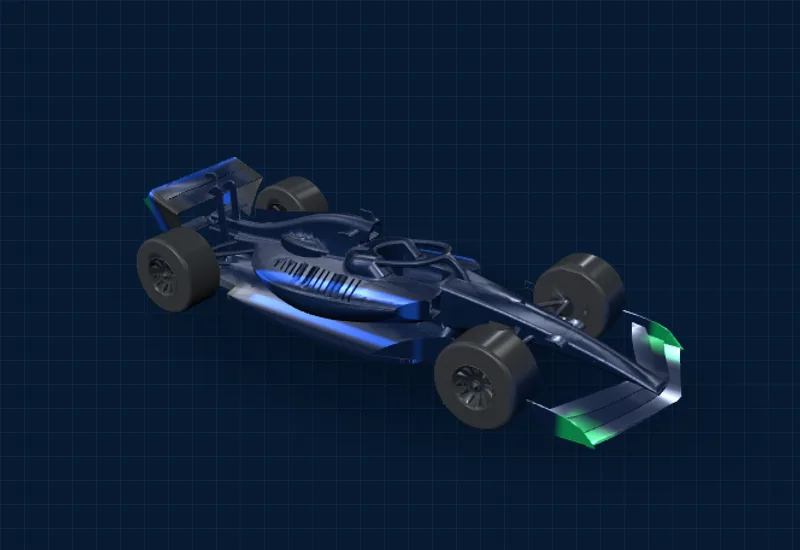
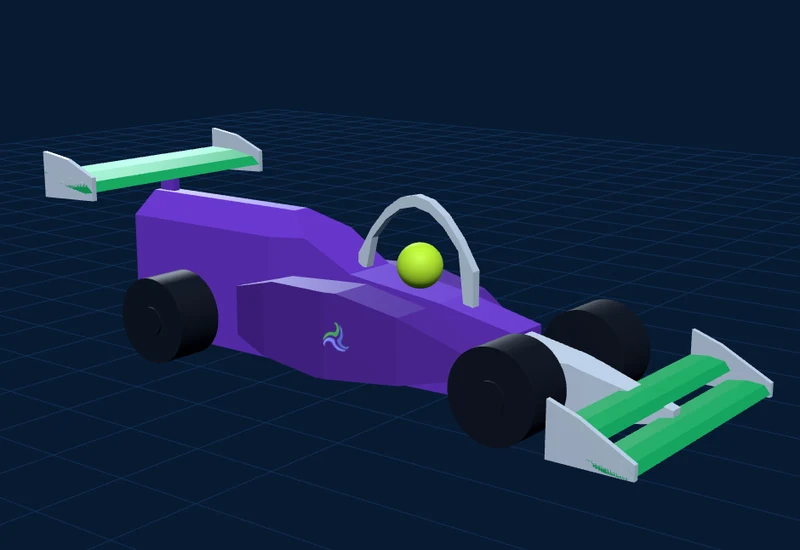
feat(hero): usa despiece/sr26.glb con librea plana por pieza y nuevo poster

Changed region(s): [[0.0312, 0.2164, 0.9688, 0.8964]]

diff --git a/js/viewer.js b/js/viewer.js
@@ -1,5 +1,5 @@
 (function(){
-  // Visor 3D del monoplaza con librea de marca (degradado nariz→chasis→alerón, sin necesitar UVs).
+  // Visor 3D del monoplaza SR-26 (despiece/sr26.glb) con la librea plana por pieza de despiece/sr26-despiece.js.
   // Perf: three.js + el .glb solo se descargan cuando el visor está por entrar en viewport (ver
   // bootWhenNear más abajo) -- hasta entonces se muestra el poster estático (car-poster.webp).
   var stage = document.getElementById('modelStage');
@@ -31,21 +31,23 @@
 
   async function boot(){
     stage.classList.add('is-loading');
-    var THREE, GLTFLoaderMod, OrbitControlsMod, RoomEnvMod, MeshoptMod;
+    var THREE, GLTFLoaderMod, OrbitControlsMod, RoomEnvMod, MeshoptMod, DespieceMod;
     try{
       THREE = await import('three');
       GLTFLoaderMod = await import('three/addons/loaders/GLTFLoader.js');
       OrbitControlsMod = await import('three/addons/controls/OrbitControls.js');
       try{ RoomEnvMod = await import('three/addons/environments/RoomEnvironment.js'); }catch(e){ RoomEnvMod = null; }
       try{ MeshoptMod = await import('three/addons/libs/meshopt_decoder.module.js'); }catch(e){ MeshoptMod = null; }
+      DespieceMod = await import('../despiece/sr26-despiece.js'); // solo para reutilizar LIVERY
     }catch(e){ return fail(); }
 
     try{
-      initViewer(THREE, GLTFLoaderMod.GLTFLoader, OrbitControlsMod.OrbitControls, RoomEnvMod && RoomEnvMod.RoomEnvironment, MeshoptMod && MeshoptMod.MeshoptDecoder);
+      initViewer(THREE, GLTFLoaderMod.GLTFLoader, OrbitControlsMod.OrbitControls, RoomEnvMod && RoomEnvMod.RoomEnvironment, MeshoptMod && MeshoptMod.MeshoptDecoder, DespieceMod.LIVERY);
     }catch(e){ fail(); }
   }
 
-  function initViewer(THREE, GLTFLoader, OrbitControls, RoomEnvironment, MeshoptDecoder){
+  function initViewer(THREE, GLTFLoader, OrbitControls, RoomEnvironment, MeshoptDecoder, LIVERY){
+    function liveryFor(name){ return LIVERY[name.slice(0, 2)] || '#CDDEEF'; }
     var scene = new THREE.Scene();
     var camera = new THREE.PerspectiveCamera(30, 1, 1, 5000);
 
@@ -64,10 +66,10 @@
     }
 
     // Iluminación de galería: el monoplaza se lee como una escultura en penumbra.
-    // Ambiente casi apagado (el IBL también se atenúa en makeLiveryMaterial) para que el contraste
+    // Ambiente casi apagado para que el contraste
     // lo den solo dos luces de firma: un key cenital blanco frío que recorta la arista superior del
     // chasis y un rim trasero blanco frío/ice que perfila el alerón trasero.
-    scene.add(new THREE.HemisphereLight(0x9DB8D6, 0x071B33, 0.32));
+    scene.add(new THREE.HemisphereLight(0xCFE0F5, 0x1A2A52, 0.9));
     var key = new THREE.DirectionalLight(0xEAF4FF, 2.6); // key cenital, blanco frío
     key.position.set(0.6, 10, 1.4);
     scene.add(key);
@@ -165,190 +167,26 @@
     }
 
     var loader = new GLTFLoader();
-    if(MeshoptDecoder) loader.setMeshoptDecoder(MeshoptDecoder); // car.glb va comprimido con EXT_meshopt_compression
-    loader.load(new URL('../car.glb', import.meta.url).href, function(gltf){
+    if(MeshoptDecoder) loader.setMeshoptDecoder(MeshoptDecoder); // por si el GLB trae EXT_meshopt_compression
+    loader.load(new URL('../despiece/sr26.glb', import.meta.url).href, function(gltf){
       var model = gltf.scene;
 
-      // El .glb trae en los accessors un bounding box cacheado que quedó desalineado del eje
-      // real de los vértices (metadata vieja de antes de la conversión Z-up -> Y-up). GLTFLoader
-      // usa esa caja tal cual si existe, así que la recalculamos desde el buffer real para que el
-      // encuadre de la cámara y la reorientación partan de las dimensiones correctas.
-      model.traverse(function(obj){
-        if(obj.isMesh){ obj.geometry.computeBoundingBox(); obj.geometry.computeBoundingSphere(); }
-      });
-
-      // Caja en el espacio LOCAL original del .glb (antes de reorientar `model`, con su matriz aún
-      // en identidad): eje X = longitud (nariz→cola), eje Y = ancho lateral, eje Z = altura real.
-      // Esta caja es el marco de referencia FIJO para pintar la librea -- ver toModelSpace abajo,
-      // que ubica a cada sub-malla (carrocería, llantas, alerón, cada una con su propio origen
-      // local en el .glb) dentro de este mismo marco, sin importar el giro idle del auto.
-      var localBox = new THREE.Box3().setFromObject(model);
-      var lMinX = localBox.min.x, lMaxX = localBox.max.x; // longitud
-      var lMinY = localBox.min.y, lMaxY = localBox.max.y; // ancho lateral
-      var lMinZ = localBox.min.z, lMaxZ = localBox.max.z; // altura real
-
-      // Mide la geometría REAL de las 4 llantas (centro y radio en el plano X-Z, el plano de giro
-      // de la rueda ya que el eje de rotación es lateral/Y) recorriendo los vértices que caen en la
-      // franja delantera/trasera donde el auto alcanza su ancho total (perfil medido con bins: el
-      // ancho salta al máximo SOLO en las 4 llantas, nunca en la carrocería entre ejes). Se usa para
-      // separar con precisión el rin (disco metálico central) del neumático (banda exterior) más
-      // abajo en el shader, sin depender de sub-mallas por pieza (el .glb no las trae).
-      var wheelScanMat = new THREE.Matrix4();
-      var wheelScanV = new THREE.Vector3();
-      var frontWheelBounds = { minX: Infinity, maxX: -Infinity, minZ: Infinity, maxZ: -Infinity };
-      var rearWheelBounds = { minX: Infinity, maxX: -Infinity, minZ: Infinity, maxZ: -Infinity };
+      // despiece/sr26.glb: metros, Y arriba, X hacia el frente, centrado en X. Sin reorientar.
+      // Material plano por pieza con la librea de LIVERY (misma paleta del despiece, sin degradados).
       model.traverse(function(obj){
         if(!obj.isMesh) return;
-        wheelScanMat.copy(model.matrixWorld).invert().multiply(obj.matrixWorld);
-        var posAttr = obj.geometry.attributes.position;
-        for(var vi = 0; vi < posAttr.count; vi++){
-          wheelScanV.fromBufferAttribute(posAttr, vi).applyMatrix4(wheelScanMat);
-          var vt = (lMaxX - wheelScanV.x) / (lMaxX - lMinX);
-          var vEdge = Math.abs((wheelScanV.y - lMinY) / (lMaxY - lMinY) - 0.5) * 2.0;
-          if(vEdge < 0.35) continue; // fuera de la franja lateral donde viven las llantas
-          var bounds = null;
-          if(vt > 0.03 && vt < 0.20) bounds = frontWheelBounds;
-          else if(vt > 0.665 && vt < 0.835) bounds = rearWheelBounds;
-          if(!bounds) continue;
-          if(wheelScanV.x < bounds.minX) bounds.minX = wheelScanV.x;
-          if(wheelScanV.x > bounds.maxX) bounds.maxX = wheelScanV.x;
-          if(wheelScanV.z < bounds.minZ) bounds.minZ = wheelScanV.z;
-          if(wheelScanV.z > bounds.maxZ) bounds.maxZ = wheelScanV.z;
-        }
+        obj.geometry.computeBoundingBox(); obj.geometry.computeBoundingSphere();
+        if(!obj.geometry.attributes.normal) obj.geometry.computeVertexNormals();
+        obj.material = new THREE.MeshStandardMaterial({ color: new THREE.Color(liveryFor(obj.name)), roughness:0.55, metalness:0.04 });
       });
-      function wheelGeomFromBounds(b){
-        if(!isFinite(b.minX)) return { cx: 0, cz: (lMinZ + lMaxZ) / 2, r: Math.max((lMaxZ - lMinZ) / 2, 1) };
-        return { cx: (b.minX + b.maxX) / 2, cz: (b.minZ + b.maxZ) / 2, r: Math.max(b.maxX - b.minX, b.maxZ - b.minZ) / 2 };
-      }
-      var frontWheelGeom = wheelGeomFromBounds(frontWheelBounds);
-      var rearWheelGeom = wheelGeomFromBounds(rearWheelBounds);
-
-      // Reorienta el auto para que descanse horizontal sobre sus 4 ruedas: la altura real (Z local)
-      // pasa a ser "arriba" (Y de three.js) y el ancho (Y local) pasa a ser el eje lateral (Z de
-      // three.js). Rotación de +90° en X intercambia Y/Z sin tocar la longitud (X) -- con -90° el
-      // piso (plano liso) quedaba arriba y la cabina/cockpit abajo (auto "de cabeza"); +90° es el
-      // sentido que deja el piso abajo y la carrocería arriba.
-      model.rotation.x = Math.PI / 2;
       model.updateMatrixWorld(true);
 
-      // El modelo quedaba con la nariz apuntando lejos de la cámara (alerón/cola hacia el frente).
-      // Se gira 180° sobre el eje Y del MUNDO (ya vertical tras el tilt anterior) para que la
-      // trompa quede orientada hacia la cámara en la vista de 3/4 inicial. rotateOnWorldAxis (en
-      // vez de sumar a rotation.y) evita que se enrede con la rotación en X ya aplicada, así el
-      // auto se mantiene perfectamente horizontal. Se hace ANTES de calcular la caja/centro para
-      // que el recentrado de más abajo parta ya de la orientación final.
-      model.rotateOnWorldAxis(new THREE.Vector3(0, 1, 0), Math.PI);
-      model.updateMatrixWorld(true);
-
-      var box = new THREE.Box3().setFromObject(model); // caja MUNDIAL ya horizontal, para encuadre/sombra
+      var box = new THREE.Box3().setFromObject(model);
       var size = box.getSize(new THREE.Vector3());
       var center = box.getCenter(new THREE.Vector3());
-
       model.position.sub(center); // centra el auto en el origen para orbitar/girar limpio
-      model.updateMatrixWorld(true); // refresca matrixWorld ya centrado, antes de derivar toModelSpace por sub-malla
+      model.updateMatrixWorld(true);
 
-      // Crea un material de librea POR sub-malla: cada uno recibe `toModelSpace`, la matriz que
-      // convierte sus vértices (en el espacio local de ESA malla) al marco fijo de `localBox`.
-      // `toModelSpace = model.matrixWorld^-1 * obj.matrixWorld` cancela algebraicamente tanto la
-      // matriz de `model` (rotación/centrado) como la de sus ancestros -- incluido `group`, cuyo
-      // giro idle (`group.rotation.y`) cambia cada frame -- así que el resultado es estable aunque
-      // el auto esté girando, y corrige el desalineamiento entre piezas con distinto origen local.
-      function makeLiveryMaterial(toModelSpace){
-        var mat = new THREE.MeshPhysicalMaterial({
-          color: 0x0F2547, metalness:0.65, roughness:0.28, clearcoat:0.4, clearcoatRoughness:0.2,
-          side: THREE.DoubleSide // el STL de origen trae normales/orientación poco fiables
-        });
-        mat.envMapIntensity = 0.3; // penumbra: el entorno solo aporta un reflejo tenue
-        mat.onBeforeCompile = function(shader){
-          shader.uniforms.uToModelSpace = { value: toModelSpace };
-          shader.uniforms.uMinX = { value: lMinX };
-          shader.uniforms.uMaxX = { value: lMaxX };
-          shader.uniforms.uMinY = { value: lMinY };
-          shader.uniforms.uMaxY = { value: lMaxY };
-          shader.uniforms.uFrontWheel = { value: new THREE.Vector3(frontWheelGeom.cx, frontWheelGeom.cz, frontWheelGeom.r) };
-          shader.uniforms.uRearWheel = { value: new THREE.Vector3(rearWheelGeom.cx, rearWheelGeom.cz, rearWheelGeom.r) };
-          shader.uniforms.cBody = { value: new THREE.Color(0x0F2547) }; // azul marino profundo (carrocería, color base único)
-          shader.uniforms.cAccent = { value: new THREE.Color(0x7137D4) }; // morado celta de acento (nariz, franja lateral)
-          shader.uniforms.cSpeed = { value: new THREE.Color(0x12B866) }; // verde esmeralda deportivo (flaps/endplates de alerones)
-          shader.uniforms.cTire = { value: new THREE.Color(0x11161B) }; // negro mate puro (caucho del neumático)
-          shader.uniforms.cRim = { value: new THREE.Color(0x2B323B) }; // grafito/titanio técnico automotriz (cubo del rin)
-          shader.vertexShader = 'uniform mat4 uToModelSpace;\nvarying vec3 vModelPos;\n' + shader.vertexShader.replace(
-            '#include <begin_vertex>',
-            '#include <begin_vertex>\n  vModelPos = (uToModelSpace * vec4(transformed, 1.0)).xyz;'
-          );
-          shader.fragmentShader = 'varying vec3 vModelPos;\nuniform float uMinX;\nuniform float uMaxX;\nuniform float uMinY;\nuniform float uMaxY;\nuniform vec3 uFrontWheel;\nuniform vec3 uRearWheel;\nuniform vec3 cBody;\nuniform vec3 cAccent;\nuniform vec3 cSpeed;\nuniform vec3 cTire;\nuniform vec3 cRim;\n' + shader.fragmentShader
-            .replace(
-              '#include <color_fragment>',
-              '#include <color_fragment>\n' +
-              '  float t = clamp((uMaxX - vModelPos.x) / max(uMaxX - uMinX, 0.0001), 0.0, 1.0);\n' + // 0 nariz -> 1 cola
-              '  float edge = abs((vModelPos.y - uMinY) / max(uMaxY - uMinY, 0.0001) - 0.5) * 2.0;\n' + // 0 centro -> 1 borde lateral
-              // Llantas: rango de `t` medido de los vértices reales (ver frontWheelBounds/rearWheelBounds
-              // en JS) -- el auto solo alcanza su ANCHO TOTAL en las 4 llantas (0.03-0.20 y 0.665-0.835);
-              // el resto de la carrocería es siempre más angosto. Usar el rango correcto es lo que evita
-              // que la pintura de nariz/alerón se filtre sobre las llantas.
-              '  float frontAxle = smoothstep(0.025, 0.045, t) * (1.0 - smoothstep(0.195, 0.215, t));\n' +
-              '  float rearAxle = smoothstep(0.665, 0.685, t) * (1.0 - smoothstep(0.815, 0.835, t));\n' +
-              '  float wheelEdge = smoothstep(0.30, 0.55, edge);\n' +
-              '  float wheelMask = clamp((frontAxle + rearAxle) * wheelEdge, 0.0, 1.0);\n' +
-              '  vec3 livery = cBody;\n' + // pintura sólida uniforme: sin degradados ni parches en el resto del chasis
-              '  float noseMask = 1.0 - smoothstep(0.02, 0.035, t);\n' + // punta delantera, se corta justo antes de la llanta
-              '  livery = mix(livery, cAccent, noseMask);\n' +
-              // Franja deportiva azul de acento a lo largo de pontones laterales / cubierta superior,
-              // SOLO entre ejes (nunca sobre las llantas ni sobre nariz/alerón). Trazo nítido y delgado,
-              // ceñido al lateral central del monoplaza (sin invadir el suelo ni las llantas).
-              '  float sideStripeSpan = smoothstep(0.24, 0.26, t) * (1.0 - smoothstep(0.60, 0.62, t));\n' +
-              '  float sideStripeEdge = smoothstep(0.44, 0.48, edge) * (1.0 - smoothstep(0.52, 0.58, edge));\n' +
-              '  float sideStripeMask = sideStripeSpan * sideStripeEdge;\n' +
-              '  livery = mix(livery, cAccent, sideStripeMask);\n' +
-              // Trazo nítido de verde esmeralda en los extremos laterales de los endplates, delanteros
-              // (t < 0.02) y traseros (t > 0.90), nunca cruza el centro de nariz/cola.
-              '  float frontWingBand = 1.0 - smoothstep(0.012, 0.022, t);\n' +
-              '  float rearWingBand = smoothstep(0.88, 0.90, t);\n' +
-              // El alerón delantero es más angosto que el trasero (su borde lateral real llega a
-              // edge~0.6, no ~0.85), así que su banda de verde usa un umbral más bajo para no quedar
-              // invisible.
-              '  float frontWingSide = smoothstep(0.48, 0.58, edge);\n' +
-              '  float rearWingSide = smoothstep(0.55, 0.78, edge);\n' +
-              '  float wingMask = frontWingBand * frontWingSide + rearWingBand * rearWingSide;\n' +
-              '  livery = mix(livery, cSpeed, wingMask);\n' +
-              // Llantas: SIEMPRE tienen prioridad final sobre nariz/franja/alerones. Dentro de la llanta,
-              // la distancia radial al centro medido de cada eje (plano X-Z, el plano de giro real de la
-              // rueda) separa el rin metálico (radio pequeño, solo cubo central y zona de tuerca/eje) del
-              // neumático de caucho negro mate (radio grande, banda exterior) con un corte nítido de
-              // competición -- así el rin gana profundidad mecánica en vez de verse como un disco plano.
-              '  vec2 wheelC = mix(uFrontWheel.xy, uRearWheel.xy, step(0.5, t));\n' +
-              '  float wheelR = mix(uFrontWheel.z, uRearWheel.z, step(0.5, t));\n' +
-              '  float wheelRad = length(vec2(vModelPos.x, vModelPos.z) - wheelC) / max(wheelR, 0.0001);\n' +
-              '  float rimFactor = 1.0 - smoothstep(0.18, 0.36, wheelRad);\n' + // 1 = cubo/tuerca central, 0 = neumático (concentra el metal, evita la plasta circular)
-              '  vec3 wheelColor = mix(cTire, cRim, rimFactor);\n' +
-              '  livery = mix(livery, wheelColor, wheelMask);\n' +
-              '  diffuseColor.rgb = livery;\n'
-            )
-            .replace(
-              '#include <roughnessmap_fragment>',
-              '#include <roughnessmap_fragment>\n' +
-              '  float wheelRough = mix(0.95, 0.38, rimFactor);\n' + // neumático mate puro / rin grafito técnico semi-mate
-              '  roughnessFactor = mix(roughnessFactor, wheelRough, wheelMask);\n'
-            )
-            .replace(
-              '#include <metalnessmap_fragment>',
-              '#include <metalnessmap_fragment>\n' +
-              '  float wheelMetal = mix(0.05, 0.70, rimFactor);\n' + // neumático no metálico / rin metálico automotriz
-              '  metalnessFactor = mix(metalnessFactor, wheelMetal, wheelMask);\n'
-            );
-        };
-        return mat;
-      }
-
-      var toModel = new THREE.Matrix4();
-      model.traverse(function(obj){
-        if(obj.isMesh){
-          // El STL de origen no trae normales: las calculamos para que la iluminación funcione.
-          if(!obj.geometry.attributes.normal) obj.geometry.computeVertexNormals();
-          toModel.copy(model.matrixWorld).invert().multiply(obj.matrixWorld);
-          obj.material = makeLiveryMaterial(toModel.clone());
-        }
-      });
       group.add(model);
 
       // Sombra de contacto: plano con textura de degradado radial, apoyado justo bajo el auto,

diff --git a/despiece/sr26-despiece.js b/despiece/sr26-despiece.js
@@ -22,7 +22,7 @@ export const CONFIG = {
 /* Librea con la paleta del sitio. Sin degradados: un color plano por pieza. */
 const C = { navy:'#071B33', surface:'#0E223D', line:'#183969', ice:'#CDDEEF', steel:'#9DB8D6',
             emerald:'#12B866', purple:'#7137D4', purpleDeep:'#5A2BA8', lime:'#C8FF32', tire:'#0A1424', dark:'#22385C' };
-const LIVERY = {
+export const LIVERY = {
   '01':C.purple, '02':C.purpleDeep, '03':C.purpleDeep, '04':C.ice,
   '05':C.emerald, '06':C.emerald, '07':C.ice, '08':C.ice,
   '09':C.emerald, '10':C.ice, '11':C.ice, '12':C.purple,
